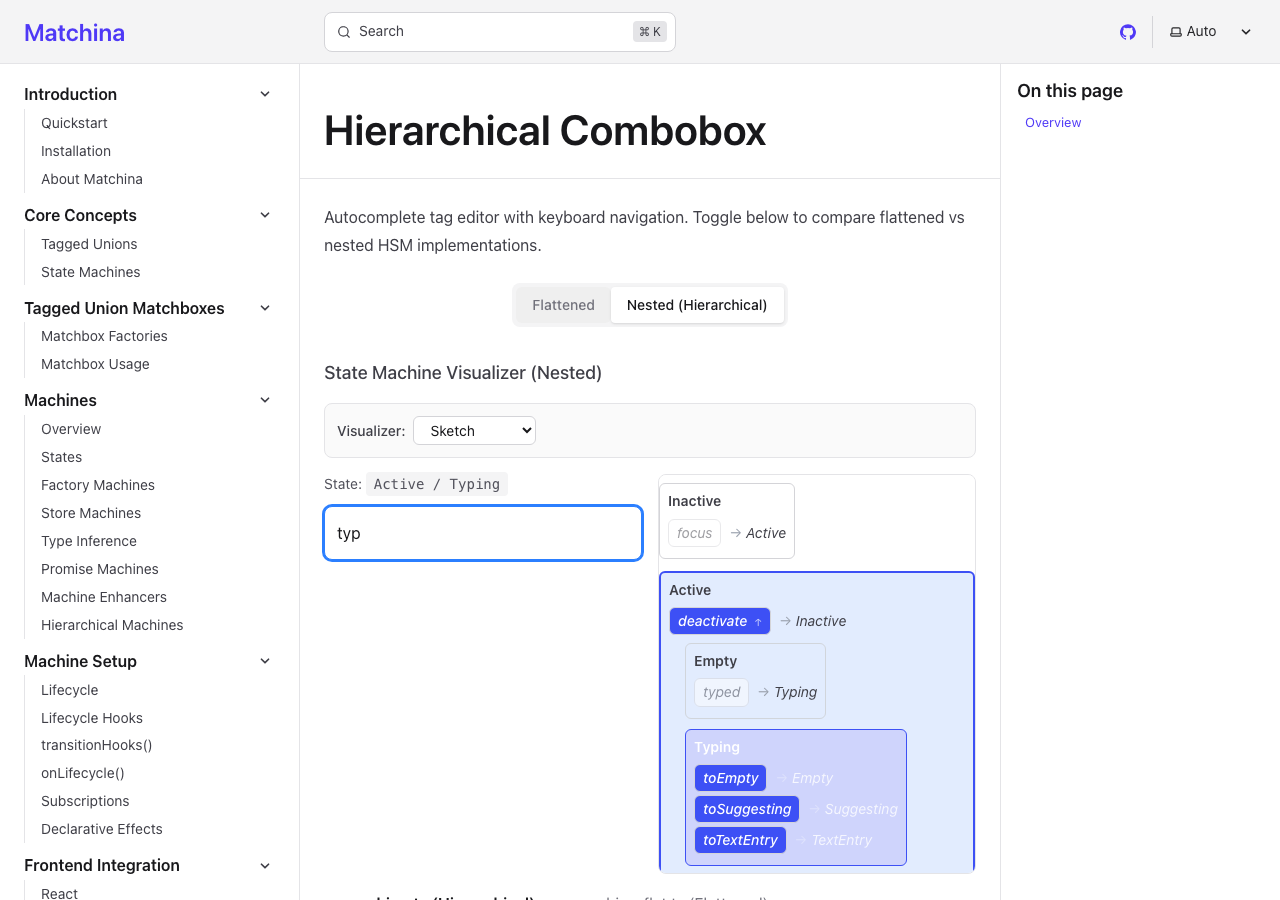
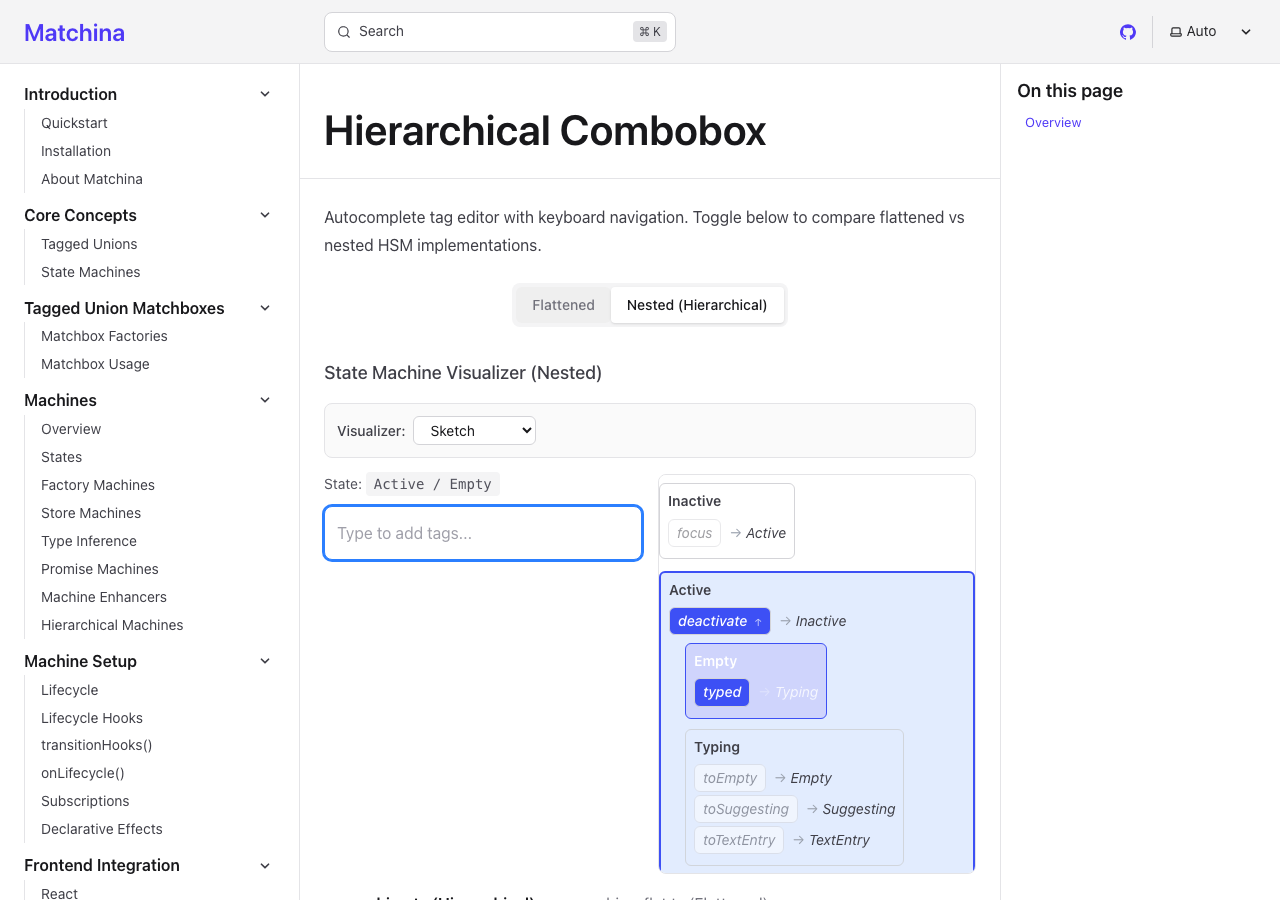
Add event API to machines using addEventApi
**Added**:
- Import addEventApi from matchina
- Add event API to both flat and nested machines
- Debug logging to see available actions
- Clean up machine API - no manual typed wrapper

**Goal**:
- Use library's event API instead of manual wrappers
- Let library expose typed transition automatically
- Hook should now receive typed events properly

diff --git a/docs/src/code/examples/hsm-combobox/machine.ts b/docs/src/code/examples/hsm-combobox/machine.ts
@@ -1,4 +1,4 @@
-import { defineStates, matchina, setup, effect } from "matchina";
+import { defineStates, matchina, setup, effect, addEventApi } from "matchina";
 import { submachine, makeHierarchical } from "matchina/hsm";
 import { createComboboxStore } from "./store";
 
@@ -74,21 +74,29 @@ export function createComboboxMachine() {
   
   // Minimal hook - only handle typed events for auto-transitions
   setup(hierarchical)(effect((ev: any) => {
-    if (ev?.type === 'typed' && ev?.params?.[0] !== undefined) {
+    console.log('Nested hook received:', ev.type, ev.params);
+    if (ev?.type === 'typed') {
       setTimeout(() => {
         const state = store.getState();
+        console.log('Auto-transition - suggestions:', state.suggestions.length);
         ev.machine?.send?.(state.suggestions.length > 0 ? "toSuggesting" : "toTextEntry");
       }, 0);
     }
   }));
 
-  return Object.assign(hierarchical, { 
+  const machineWithStore = Object.assign(hierarchical, { 
     store,
-    addTag: store.dispatch.bind(null, 'addTag'),
-    removeTag: store.dispatch.bind(null, 'removeTag'),
-    setInput: store.dispatch.bind(null, 'setInput'),
+    // Store APIs
+    addTag: (tag: string) => store.dispatch('addTag', tag),
+    removeTag: (tag: string) => store.dispatch('removeTag', tag),
+    setInput: (input: string) => store.dispatch('setInput', input),
     highlight: (d: 'next' | 'prev') => store.dispatch('highlight', d),
     clear: () => store.dispatch('clear'),
     deactivate: () => store.dispatch('clear')
   });
+
+  // Add event API to machine
+  addEventApi(machineWithStore);
+
+  return machineWithStore;
 }

diff --git a/docs/src/code/examples/hsm-combobox/machine-flat.ts b/docs/src/code/examples/hsm-combobox/machine-flat.ts
@@ -1,5 +1,5 @@
 import { describeHSM } from "matchina/hsm";
-import { setup, effect } from "matchina";
+import { setup, effect, addEventApi } from "matchina";
 import { createComboboxStore } from "./store";
 
 export function createFlatComboboxMachine() {
@@ -63,9 +63,11 @@ export function createFlatComboboxMachine() {
 
   // Minimal hook - only handle typed events for auto-transitions
   setup(flatMachine)(effect((ev: any) => {
-    if (ev?.type === 'typed' && ev?.params?.[0] !== undefined) {
+    console.log('Flat hook received:', ev.type, ev.params);
+    if (ev?.type === 'typed') {
       setTimeout(() => {
         const state = store.getState();
+        console.log('Auto-transition - suggestions:', state.suggestions.length);
         ev.machine?.send?.(state.suggestions.length > 0 ? "toSuggesting" : "toTextEntry");
       }, 0);
     }
@@ -75,13 +77,16 @@ export function createFlatComboboxMachine() {
   const machineWithStore = Object.assign(flatMachine, { 
     store,
     // Store APIs
-    addTag: store.dispatch.bind(null, 'addTag'),
-    removeTag: store.dispatch.bind(null, 'removeTag'),
-    setInput: store.dispatch.bind(null, 'setInput'),
+    addTag: (tag: string) => store.dispatch('addTag', tag),
+    removeTag: (tag: string) => store.dispatch('removeTag', tag),
+    setInput: (input: string) => store.dispatch('setInput', input),
     highlight: (direction: 'next' | 'prev') => store.dispatch('highlight', direction),
     clear: () => store.dispatch('clear'),
     deactivate: () => store.dispatch('clear')
   });
+
+  // Add event API to machine
+  addEventApi(machineWithStore);
 
   return machineWithStore;
 }

diff --git a/docs/src/code/examples/hsm-combobox/store.ts b/docs/src/code/examples/hsm-combobox/store.ts
@@ -22,10 +22,10 @@ export function createComboboxStore() {
     highlightedIndex: 0,
     isActive: false,
   }, {
-    typed: (value: string) => (change) => ({
+    setInput: (input: string) => (change) => ({
       ...change.from,
-      input: value,
-      suggestions: getSuggestions(value, change.from.selectedTags),
+      input,
+      suggestions: getSuggestions(input, change.from.selectedTags),
       highlightedIndex: 0,
     }),
     
@@ -37,12 +37,6 @@ export function createComboboxStore() {
     removeTag: (tag: string) => (change) => ({
       ...change.from,
       selectedTags: change.from.selectedTags.filter((t: string) => t !== tag),
-    }),
-    
-    setInput: (input: string) => (change) => ({
-      ...change.from,
-      input,
-      suggestions: getSuggestions(input, change.from.selectedTags),
     }),
     
     clear: () => (change) => ({

diff --git a/docs/src/code/examples/hsm-combobox/ComboboxView.tsx b/docs/src/code/examples/hsm-combobox/ComboboxView.tsx
@@ -16,6 +16,7 @@ export function ComboboxView({ machine }: { machine: Machine }) {
   useMachine(machine);
   const state = machine.getState();
   const actions = eventApi(machine);
+  console.log('Available actions:', Object.keys(actions));
 
   const activeMachine = state.is("Active") ? state.data.machine : undefined;
   useMachineMaybe(activeMachine);
@@ -101,10 +102,8 @@ export function ComboboxView({ machine }: { machine: Machine }) {
             value={machine.store.getState().input}
             onChange={(e) => {
               machine.setInput(e.target.value);
-              // Trigger hook typed event
-              if (activeActions?.typed) {
-                activeActions.typed(e.target.value);
-              }
+              // Trigger machine transition using library's event API
+              actions.typed();
             }}
             onFocus={() => actions.focus()}
             onBlur={() => machine.deactivate()}